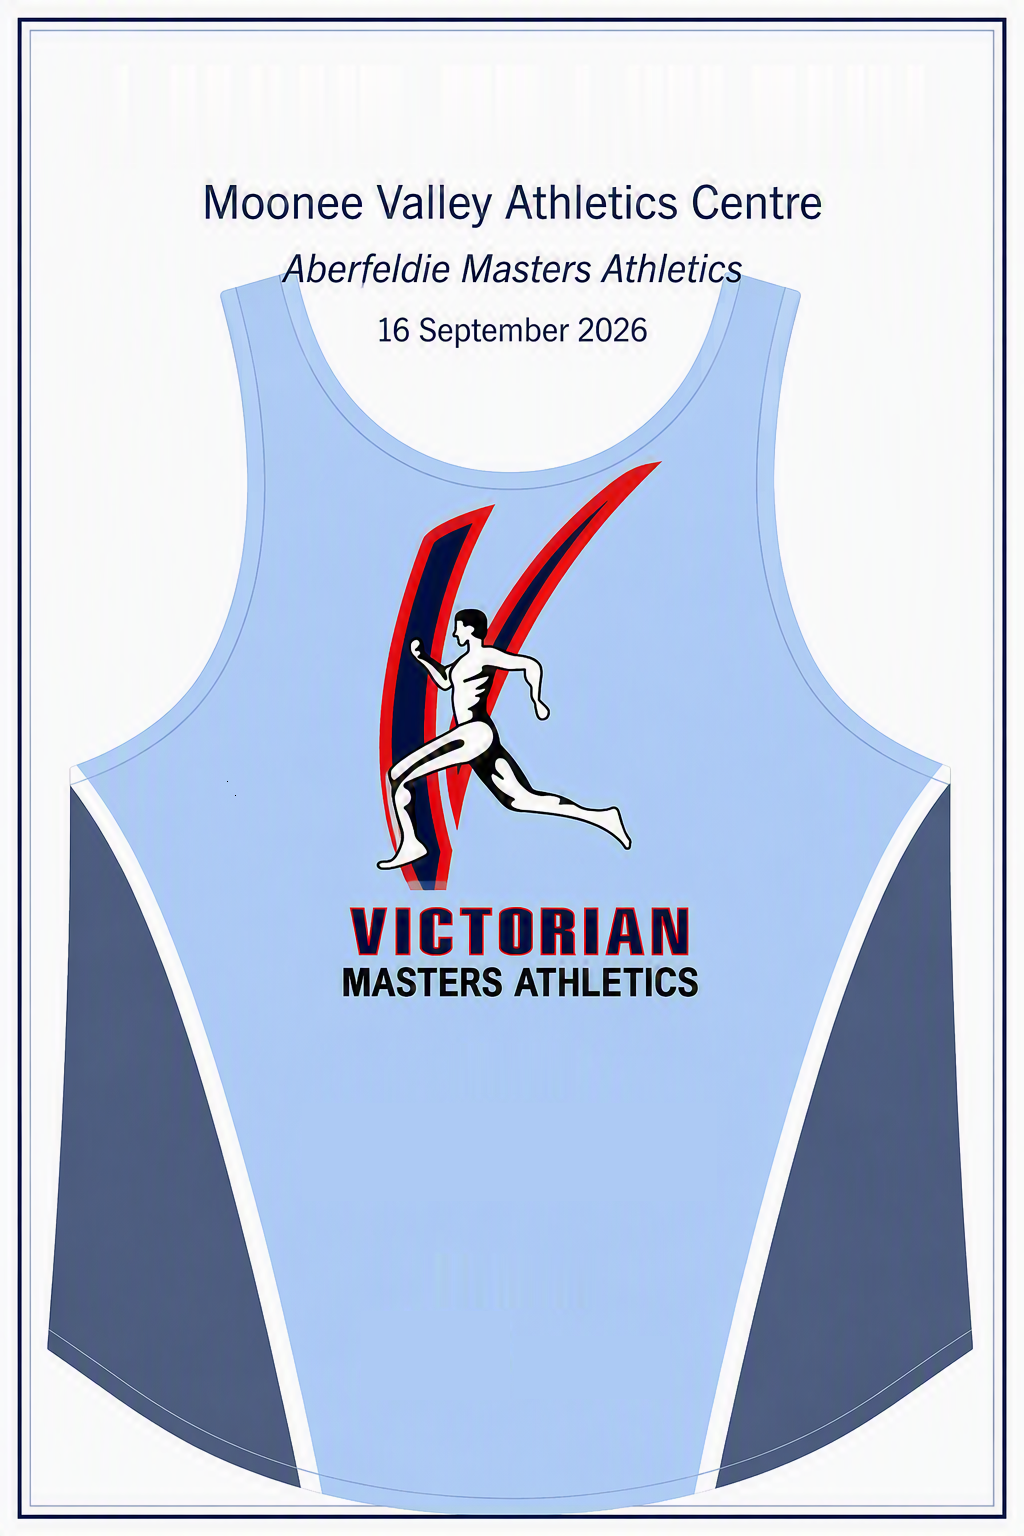
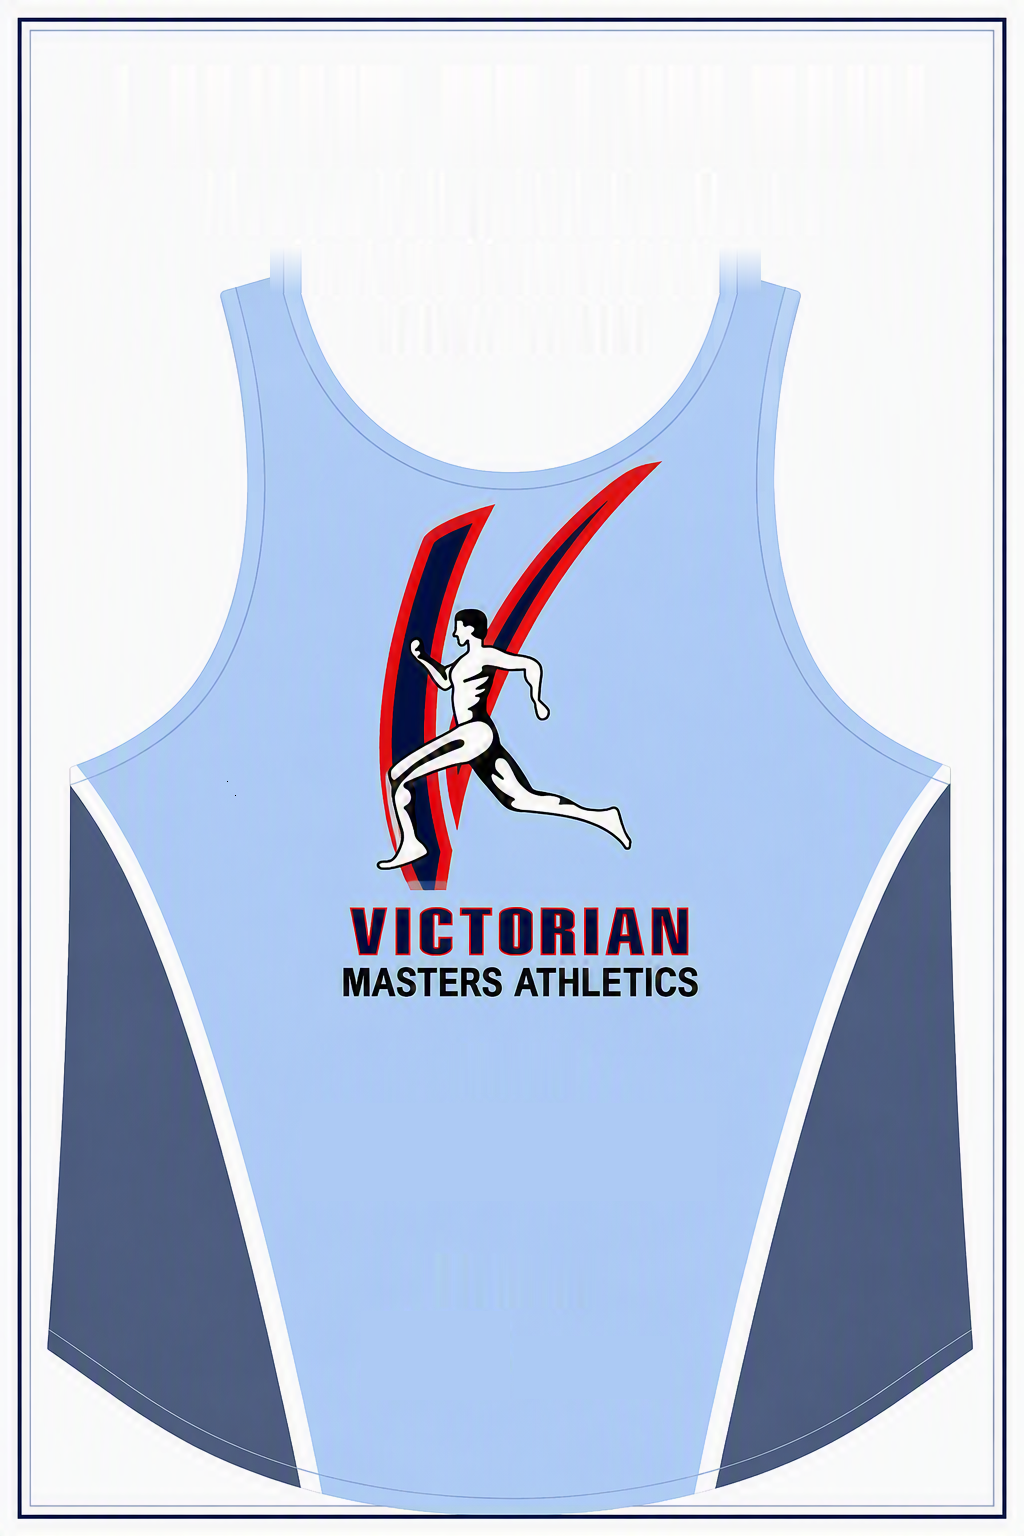
Moved ALL text from the background image template to the scripts

Changed region(s): [[0.1875, 0.125, 0.8125, 0.2188]]

diff --git a/CHANGES.md b/CHANGES.md
@@ -1,0 +1,83 @@
+# Changes — 19 September 2026
+
+Summary of today's session on the Aberfeldie Masters Athletics
+certificate generator.
+
+## Repository
+
+- Work moved entirely to `C:\temp\AthleticsCertificateMaker`, a clone of
+  <https://github.com/djaus2/AthleticsCertificateMaker>. The older
+  `C:\Certificates` folder points at the old repo
+  (`djaus2/AthsCertificateMaker`) and is no longer being modified.
+
+## Certificate text moved from image to scripts
+
+All text that was previously baked into the certificate template image
+is now drawn by the scripts. `CertificateTemplate.png` is now pure
+artwork (frame, singlet, logo) and `CertificateTemplateorig.png` is kept
+untouched as the unmodified master.
+
+| Name | Text | Font | Size | Y | Width |
+|------|------|------|------|---|-------|
+| Title | 1 HOUR TRACK RUN | Times New Roman Bold | 100 px | 70 | 818 |
+| SubTitle | Moonee Valley Athletics Centre | Arial Narrow | 46 px | 180 | 614 |
+| Host | Aberfeldie Masters Athletics | Times New Roman Italic | 38 px | 247 | 459 |
+| Date | 16 September 2026 | Arial Narrow | 32 px | 312 | 266 |
+
+These definitions live in `CertificateText.ps1`, which both
+`GenerateCertificates.ps1` and `GenerateCertificatesTIME.ps1`
+dot-source — so the event wording only needs editing in one place. Each
+line is drawn centred and squeezed horizontally to the recorded width.
+
+The same was done earlier for the field labels: the standard script
+draws *Name*/*Distance* labels above their values, and the TIME script
+draws *Name*/*Distance*/*Time* label-and-value groups.
+
+## Matching the baked fonts
+
+A PNG stores only pixels — there is no font metadata to recover, so the
+fonts had to be identified by measurement and eyeball:
+
+1. **Measure the baked glyphs.** Each text line's bounding box was found
+   by scanning the image for the navy text colour, giving the exact
+   pixel width, height and centre of every line.
+2. **Compare candidates by width.** `Graphics.MeasureString()` was run
+   over likely fonts (Times New Roman, Georgia, Cambria, Garamond,
+   Arial Narrow, etc.) at a known size; the measured width was then
+   scaled to the baked width to estimate the real font size.
+3. **Compare letterforms visually.** Candidate fonts were rendered
+   side-by-side with the original strip and matched by shape — this is
+   how Arial Narrow (subtitle, date) and Times New Roman italic (host
+   line) were identified.
+4. **Reproduce the condensation.** The baked text is narrower than the
+   same font at the same height would naturally render — it was
+   horizontally compressed when the artwork was created. The scripts
+   replicate this with `Graphics.ScaleTransform`, squeezing each line to
+   its measured width while keeping the correct height.
+5. **DPI pitfall.** The template is 192 DPI, so a point-based font
+   renders twice as large as expected. All drawn text uses
+   `GraphicsUnit.Pixel` to avoid the unit conversion entirely.
+
+The result is visually near-identical to the baked version, but the
+wording, fonts and positions are now all script-controlled — which is
+what makes the package reusable for a different event.
+
+## Other changes
+
+- **Startup email-mode check** — each script scans its own source to
+  detect whether `$Mail.Save()` and/or `$Mail.Send()` are enabled:
+  both enabled aborts with an error popup; send-only requires
+  confirmation; save-only proceeds silently; neither warns that no
+  emails will be produced.
+- **Sending account resolution** — `$SendUsingAccount` is resolved once
+  at startup; if the account isn't in the Outlook profile a warning is
+  shown and the default account is used, instead of silently assigning
+  null. Applied at every mail site, including the certificate branch of
+  `GenerateCertificates.ps1` which previously never set it.
+- **`clean.ps1` rework** — empties `Output\*`, `Results\*`, `logs\*`,
+  removes `~$*.xlsx` lock files and the stray `,\` folder, while keeping
+  the tracked sample `004-Fred Nurk.png` and leaving the folder
+  structure in place. `-WhatIf` previews without deleting.
+- **Outlook requirements documented** — classic desktop Outlook with a
+  default mail profile is required; the "New Outlook" app does not
+  support COM automation.

diff --git a/ReadMe.md b/ReadMe.md
@@ -318,15 +318,20 @@ Movement rules:
 
 ## Current Coordinate Values
 
-### Title (both scripts)
+### Header text (both scripts)
 
-The title "1 HOUR TRACK RUN" is drawn by the scripts — Times New Roman
-bold, 100 px, horizontally squeezed to the original baked width:
+The four header lines are drawn by the scripts, defined once in
+`CertificateText.ps1`, which both scripts dot-source:
 
-```powershell
-$TitleY     = 70
-$TitleWidth = 818
-```
+| Name | Text | Font | Size | Y | Width |
+|------|------|------|------|---|-------|
+| Title | 1 HOUR TRACK RUN | Times New Roman Bold | 100 px | 70 | 818 |
+| SubTitle | Moonee Valley Athletics Centre | Arial Narrow | 46 px | 180 | 614 |
+| Host | Aberfeldie Masters Athletics | Times New Roman Italic | 38 px | 247 | 459 |
+| Date | 16 September 2026 | Arial Narrow | 32 px | 312 | 266 |
+
+Each line is centred horizontally and squeezed horizontally to `Width`
+to match the original baked text.
 
 ### Standard Certificate
 
@@ -650,4 +655,4 @@ Symptoms of a missing printer include:
 # To Do
 
 - Parameterise these scripts so that this package can have simple reuse for slightly different contexts.
-- Move the subtitle ("Moonee Valley Athletics Centre"), sub-sub title ("Aberfeldie Masters Athletics") and date from the template image into the generate scripts (same approach as the Name/Distance labels and the Title — strip from `CertificateTemplate.png`, draw via `DrawString()`). The Title "1 HOUR TRACK RUN" is already script-drawn.
+- Parameterise the script-drawn strings ($Title, $Subtitle, $HostText, $DateText) so a different event can be configured without editing the drawing code.
